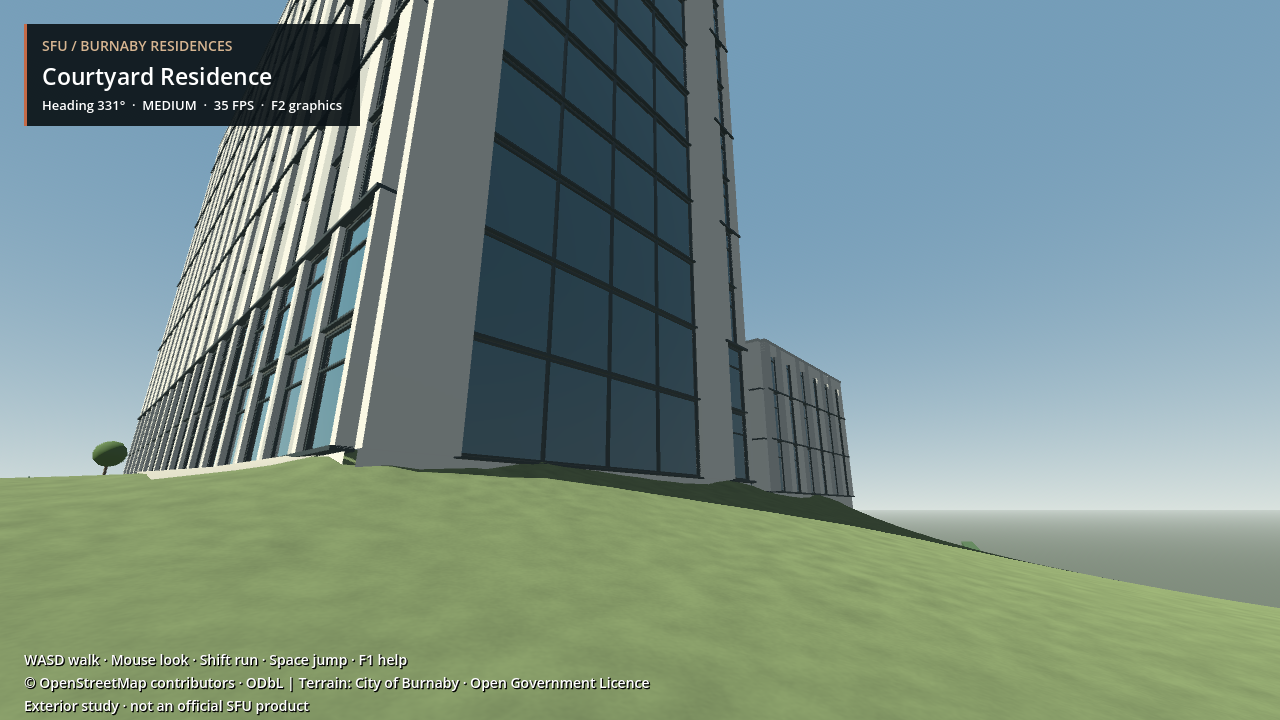
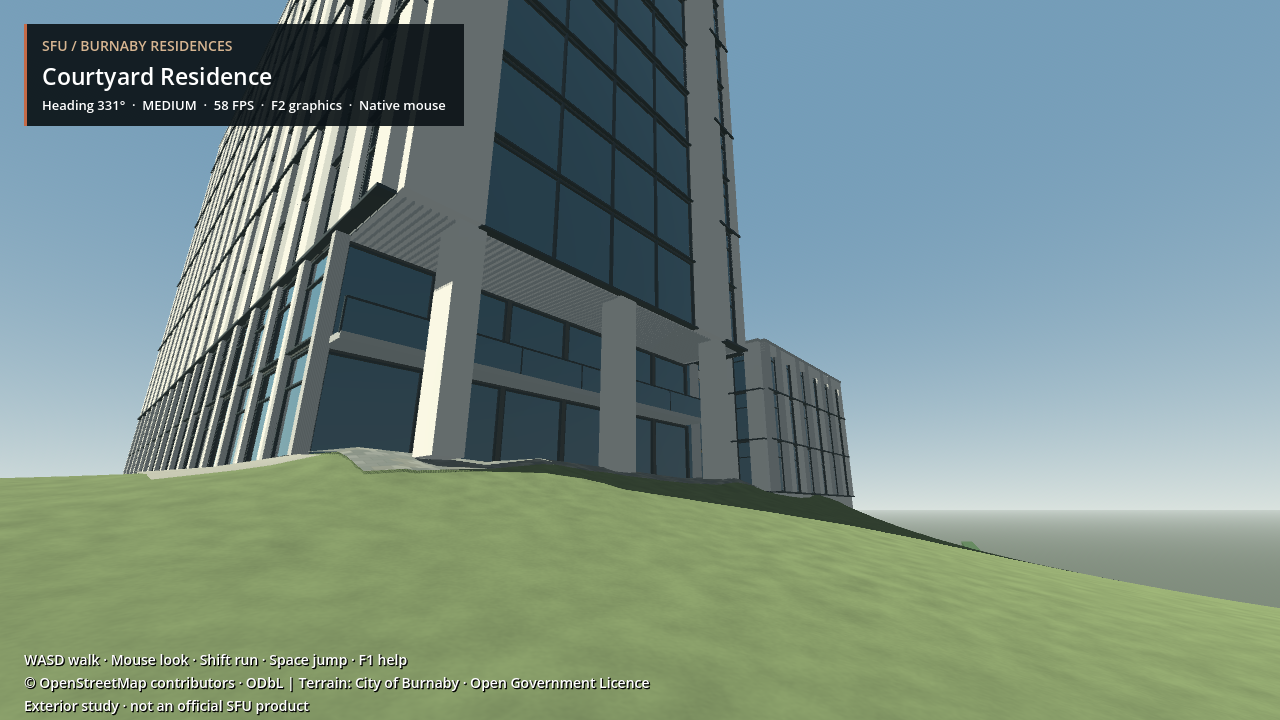
Open Courtyard eastern portico with piers, soffit, pavers and traversal checks

Changed region(s): [[0.2188, 0.2444, 0.5938, 0.6722], [0.2812, 0.0306, 0.375, 0.1833], [0.0625, 0.6111, 0.2188, 0.6722]]

diff --git a/docs/PHASE2_HANDOFF.md b/docs/PHASE2_HANDOFF.md
@@ -1,68 +1,30 @@
 # Phase 2 handoff — 2026-10-18
 
-## Resume here
-Read git status/log and this file. Canonical project outer game/. Last implementation checkpoints:2d0ca64 (Shell courtyard) and560b2cf (Beedie Field). Later documentation checkpoint adds Courtyard evidence and this handoff. Do not recopy Phase1, redo completed photo indexing or reopen mouse troubleshooting without a new failure.
+## Resume
+Use outer game/, inspect git status/log and PHASE2_STATUS.md. Latest field checkpoints681cade and92d2543; final checkpoint adds the Courtyard eastern portico. No migration, dependency reinstall, photo reindex or mouse rewrite needed. User-confirmed mouse/host movement/fullscreen/primary display preserved. Exact stack: Debian WSL2, Godot4.7.2 Standard, GDScript, Compatibility, GTX1650.
 
-User explicitly confirmed mouse works. Preserve current Windows Raw Input helper and host key forwarding, default fullscreen/Windows-primary monitor, escape/focus-loss release. Same Linux Godot4.7.2 Standard/GDScript/Compatibility stack; no dependency installation. Physical testing of all six forwarded keys was not separately confirmed by the user, but HostMovementQA passed previously.
+## Next concrete increment
+Continue Courtyard's LOWER courtyard-facing gallery, not the already completed eastern tall portico. Read PHASE2_COURTYARD_PHOTO_REVIEW.md and existing URL-only references. DIALOG0027 shows pale rectangular columns, closely spaced ceiling fins, grey pavers, low planters and picnic tables looking toward the lowrise and atrium. DIALOG0058 is the DIFFERENT tall eastern portico;0063 is the eastern atrium entrance. Do not combine them into a uniform-height tunnel.
 
-## Next concrete development increment
-Courtyard exterior portico/undercroft. Read the final2026-10-18 section of PHASE2_COURTYARD_PHOTO_REVIEW.md and the three new URL records in reference_photos/Courtyard_Residence/ONLINE_REFERENCES.json. Visually inspected DIALOG images0027,0058,0063 establish different court-facing and street-facing covered spaces; do not apply one guessed gallery height to the entire building.
+Candidate inner-court highrise segment is original footprint points3[328.899,-8.829] to4[300.565,-15.345], facing the lowrise/atrium. Recheck this localization before cutting. Existing CourtyardExterior.shell creates closed collidable polygons. Current eastern implementation uses CourtyardPortico.layout cut, one clipped lower shell to6.2m and full upper shell above it. For a lower gallery, separate vertical bands: lower zone clipped by both openings, intermediate zone clipped only by east portico, full upper footprint. Preserve roof zones, room closure, capped return walls and foundation. Omit only the corresponding facade bays; add piers/soffit/pavers and test physical entry/crossing/exit, rear wall, overhead collision and roof parity. Current eastern dimensions are estimates. Do not expose residential interiors.
 
-Start with the photo-supported eastern portico under the glazed highrise end. Inspect CourtyardExterior.gd shell/facade generation: it currently closes ground floors, with separate highrise/lowrise/atrium zones. Preserve outer footprint, highest roof, all original coordinates and residential closure. A shallow exterior cut requires matching shell, lower facade, return-wall and collision changes, capped recesses, piers and soffit. Test new exterior traversal, inner closed wall, overhead collision and all existing routes. Validate against an eye-level east capture before extending to the courtyard-facing undercroft. User says bridge faces West Mall; do not place it toward the courtyard. Existing generic canopy is not evidence of an actual bridge object.
+The eastern forecourt currently remains an unrealistic grass slope immediately outside the new paver strip. Photo0058 establishes a paved plaza/curb/road, but exact grade needs localization and a separately documented grading layer. Preserve source terrain and pads. Bridge must face West Mall per user, not the inner courtyard; existing generic canopy is not a verified bridge. Full remaining backlog is in STATUS; none of Shell/McTaggart/North parking stairs/East-West stairs/basketball/townhouse approaches/landscape has been dropped.
 
-Further priorities: North gallery parking stairs; McTaggart descending approach; Shell annex/pergola/stairs/trees and grade exposure; East/West site stairs and basketball court; more hardscape and planting. See PHASE2_SITE_WALK_CORRECTIONS.md for full user request. Never remodel approved East/West merely to match old Street View. Modern Courtyard was absent in older imagery; McTaggart and paving also changed.
+## What is verified
+218 physics checks,376 terrain parity samples,389 route checkpoints,zero failures. Final physical route includes entry between eastern piers, crossing behind them, and exit. The tall portico's rear wall and overhead slab are collidable; original Courtyard roof samples remain correct. Runtime/family/photo validators pass. Logs: /tmp/courtyard-portico-verification.log and /tmp/courtyard-portico-route-final.log. Final paving is visual only and scene/route launch passed afterward.
 
-## What changed this iteration
-ShellCourtyard.gd adds photo-derived fence and concrete round tables/curved seats, plus a narrow walk. Form based on user1773695185556.jpg and Shell.jpg; western placement, dimensions, count and spacing are estimated. A table initially blocked original route250,100 and was relocated; unchanged original route subsequently passes. Narrow east-west path remains open through a wide screen gap. Shell facade/roof/pads untouched. Exact entry and exposed floor count remain unresolved. See PHASE2_SHELL_REVIEW.md.
+GPU capture /tmp/courtyard-portico-final-capture.log completed; courtyard_4 inspected from within the portico, previous courtyard_0 inspected from eastern approach. Field4_0/2 and Field2_0/2 also inspected. Device GTX1650 with Compatibility confirmed. Large-campus views17–20fps under test load, simple views near60; not an isolated benchmark. Do not claim full visual fidelity or performance completion.
 
-BeedieField.gd uses OSM way32528092 outline, official SFU Athletics description and historical Jasper Chan panorama uploaded2012. Adds original turf, infield, warning-track, screen/backstop, six static lighting poles, approximate open-sided shelters and simplified scoreboard. Baseline/pitch distances and fixture positions are modeling assumptions, not surveyed values. Dugouts are not yet correctly sunken; bleachers, bullpens, batting cage, concession, actual approach paving and detailed surroundings remain missing.
+Run: bash scripts/run_game.sh . Full regression after geometry: bash scripts/verify_game.sh . Captures: bash scripts/run_game.sh -- --capture-courtyard (now5views), --capture-field4, --capture-field2, --capture-field, --capture-shell. Validators: python3 scripts/validate_runtime_data.py ; python3 scripts/validate_families.py ; python3 scripts/validate_photo_reference_index.py . No need repeat runtime tests for documentation-only edits.
 
-scripts/build_beedie_grade.py writes a separate1997-sample reversible layer, target0.48m median of existing terrain. Flat playing surface,3m collar,14m smooth blend; building4m exclusion plus protection ramp. Original terrain_grid unchanged. Runtime study boundary unions original outline with field8m buffer; no field clipping/moving. Source projected file intentionally remains an unmodified pre-implementation record; runtime game/data/beedie_field.json says implemented. See PHASE2_BEEDIE_FIELD.md.
+## Fields and terrain details
+Field4 OSM32528090, local grade-1.52m; separate field4_grade, 3m collar/18m blend. Field2 OSM32528091, grade0.52m; appended7520 terrain samples toZ280 and3952 local grading samples. Original terrain_grid remains immutable. Generators scripts/build_field4_grade.py and build_field2_grade.py are explicit; do not run build_terrain.py, which would overwrite approved source-grid/pad state. Runtime TerrainController loads extension before local grade layers. Source projected polygons remain reference records; runtime data records implementation status separately.
 
-## Verified state and commands
-/tmp/beedie-verification.log passes191 physics checks,358 route checkpoints,376 terrain-ray parity samples,0 failures. All original routes pass, plus Shell7-point opening route and Beedie10-point gate/outfield route. Runtime/family validators pass, unchanged approved architecture and original geographic records. Last later edit changes turf noise only.
+Field4 soccer form/photo; Field2 natural grass/H posts/photo. User calls Field2 second Beedie/football area; official SFU rugby/soccer naming retained, yard-number markings unresolved. Beedie softball remains separate. Three venues, not four: Field4 outer facility overlaps its pitch and must not be instantiated twice. Exact fixture locations/finished levels remain estimates. Source/URL licensing metadata in Sports_Fields/ONLINE_REFERENCES.json; no third-party photo pixels in game textures.
 
-/tmp/shell-courtyard-final-capture.log and /tmp/beedie-final-capture.log complete on GTX1650 Compatibility. Inspected final shell_3 and field_1, plus initial field_0/field_3. Headless import is not visual fidelity proof. No isolated FPS claim. Field fence uses simplified square grid; site boundary hedge remains a study-limit artifact outside outfield.
+## Preservation and pending evidence
+Approved East/West master/FacadeKit/pads, original19-building geography/routes/site and source contours verified unchanged. Townhouse shared master and contact plinths retained. North longitudinal gallery under long courtyard wing remains correct. Parking target is full preconstruction MainLot by explicit user choice. Old Google imagery is obsolete for modern East/West, McTaggart, Courtyard and paving; use cautiously.
 
-Run interactively: bash scripts/run_game.sh . Restart an older game process to see changes. Focused capture: bash scripts/run_game.sh -- --capture-field (4views), or --capture-shell (5views). Full regression when geometry changes: bash scripts/verify_game.sh . Validators: python3 scripts/validate_runtime_data.py ; python3 scripts/validate_families.py ; python3 scripts/validate_photo_reference_index.py . Do not repeat full regression for documentation-only changes.
+Revisited user PWL-SFU-Residences-Phase-1-1001.jpg this window: readable Shadbolt sign, approximately nine concrete risers, side concrete cheeks, metal rails, inset step light, mixed grey rectangular pavers and planted flanks. This is courtyard-facing evidence, not enough to locate rear parking stairs. Do not revive the old wrong-orientation prototype (/home/danik/Backups/SFU-North-stair-prototype-20261016) blindly.
 
-## Preservation and source handling
-Mouse, approved East/West master/FacadeKit and pads, shared townhouse master, North longitudinal passage direction, original19building XZ and source elevations protected. Full preconstruction parking lot explicitly user-approved. Original nested game remains rollback; obsolete nested Markdown cleanup was completed earlier. No NPCs/interiors/API integration.
-
-46local photos individually indexed; no copyrighted photo pixels shipped. Shell Street View visually inspected only (June2015,2011 alternative); used for orientation caveat, not modern reconstruction truth. Official Shell plan link redirected to CAS and was not bypassed. Additional Courtyard/Beedie images retained as URL metadata only.
-
-Untracked user/source files preserved: FILE_MANIFEST.json, vehicle source zip and Zone.Identifier, historic_maps/, reference folder .gitkeep files and reference_photos/README.md. HostMovementQA.gd.uid was generated by import and can be committed with that existing script. One-off metadata helpers archived outside workspace at /home/danik/Backups/SFU-site-iteration-20261018. Original and pre-final consolidated status/handoff copies are also there.
-
-Latest host usage reading87% consumed while preparing final checkpoint. Stop here for this window; next user-started iteration revokes this stop instruction. Five hours is quota reset, never a development deadline. No automatic reset wait/resume configured.
-
-## User follow-up: THREE residence-adjacent fields — 2026-10-18
-User confirms there are three distinct fields behind West/East/McTaggart; Beedie alone is incomplete. Source preparation completed within user-reported remaining7% allowance; no runtime geometry changed.
-
-Official SFU Recreation https://www.sfu.ca/recreation/info/facilities.html identifies Field4 as artificial turf for soccer/lacrosse (two coaches booths, lighting,360 seats), Field2 as grass for rugby/soccer, Beedie as softball. Cross-checked SFU Athletics facilities page https://athletics.sfu.ca/sports/2014/8/8/ATH_0808144723.aspx?id=90 . Existing precinct.osm contains all three adjacent mapped venues. Terry Fox Field is a different venue farther east; do not substitute it for Field2.
-
-scripts/prepare_residence_fields.py writes data/site_sources/residence_fields_projected.json, with original source IDs/tags, projected polygons, bounds, licensing and implementation status. Projection regression matches the existing Beedie coordinates exactly.
--Field4 playing surface: OSM32528090, X-59.569..75.245,Z65.583..156.018. Outer facility OSM1091325198: X-80.895..77.733,Z57.832..158.875. These overlap and are ONE field, not two.
--Field2: OSM32528091, X138.738..273.958,Z159.298..257.972. Extends beyond current rendered terrain Z240 AND playable boundary; must expand sampled terrain/render/collision coverage deliberately. Do not clamp elevations outside the old grid or clip/relocate the field.
--Beedie: OSM32528092, already implemented first pass; preserve it.
-
-Next field increment: audit Field4 against the current anonymous green quadrilateral in ResidenceWorld.build_ground ([-66,74],[55,100],[40,160],[-80,137]); replace that placeholder with the mapped field rather than layering duplicate turf. Also audit spawn[35,80], paths, boundary and level grading before placing goals/fences. Obtain current specific field photos; preserve surrounding approved buildings. Then extend geographic/terrain coverage for Field2, with collision and traversal checks. Neither missing field has been implemented yet.
-
-All repeated user remarks remain active: mouse now works and must be preserved; Shell timber seating/fence/stairs/terraces (fence/concrete picnic seating partial, timber benches not yet verified); McTaggart descending approach; Courtyard open supported ground level and bridge toward West Mall; North gallery direction correct, wall backsides fixed previously but parking stairs pending; East/West exterior stairs and basketball court while preserving facades; three sports fields; townhouse ground contact improved but approach grades pending; continuing paving/curb/retaining/landscape research. Old Street View cannot override current East/West, McTaggart, Courtyard or newer paving. No request was dropped.
-
-Current runtime remains verified checkpoint560b2cf:191 physics checks/358 route points; this source/documentation follow-up needs no repeated runtime test. Resume this expanded backlog on next user-started window; prior stop wording does not mean work is finished.
-
-## Verified Field4 checkpoint — 2026-10-18, new usage window
-This section supersedes the earlier stop instruction and statement that Field4 is missing. Field4 now replaces the anonymous turf patch with its mapped outline, level local grade, soccer lines and goals. Approved building models and input unchanged. Official field photographs inspected and URL-only indexed in Sports_Fields/ONLINE_REFERENCES.json; see PHASE2_RESIDENCE_FIELDS.md for uncertainty.
-
-Verification: /tmp/field4-boundary-verification.log physics199/199 and terrain parity376/376. Final route-only rerun /tmp/field4-route-final.log passes372/372 checkpoints including14 Field4 approach/pitch points; prior failure was a too-long timed test segment, now subdivided without changing its path. Runtime/family/photo validators pass. GPU capture /tmp/field4-boundary-capture.log completed on GTX1650 Compatibility; eye-level field4_0 and final aerial field4_2 inspected. Capture reports19fps/429draws under concurrent testing, not an isolated benchmark; performance remains a concern.
-
-Next: integrate prepared Field2.gd, field2.json, field2_grade.json and field2_terrain_extension.json. They are currently untracked preparation, not runtime-active. User clarified eastern Field2 beside McTaggart; separate Field4 behind towers. Preserve official rugby/soccer description and photo-confirmed H goals; American football yard lines unconfirmed. Extend render grid to Z280, union boundary, and test seam/collision/traversal. Then resume Courtyard portico and the full retained site backlog above. No earlier user remarks were dropped.
-
-## Verified Field2 checkpoint — 2026-10-18
-Field2 is now runtime-active; all THREE residence-adjacent fields exist. OSM32528091 footprint preserved. Original natural-grass material and two photo-supported H-goal assemblies; goal dimensions/positions remain estimated. User's eastern-location clarification retained; official venue description rugby/soccer differs from user's football/second-Beedie naming. No unsupported yard-number markings.
-
-Terrain extends from Z240 to Z280 using7520 appended samples from original licensed contours, with separate3952-sample local grade at estimated0.52m. Original terrain_grid and pads remain unchanged. Rendering/collision and study boundary cover the entire field. /tmp/field2-verification.log:215 physics checks,385 route points,376 existing terrain parity samples,0 failures. Includes level/collision/boundary samples beyondZ240, seam continuity and13-point approach/pitch route. Preservation validation passes.
-
-/tmp/field2-capture.log completed on GTX1650 Compatibility. field2_0 eye-level and field2_2 aerial visually inspected. Three fields correctly distinct and no clipped ground. Site-limit hedge is still an artificial boundary; forest-edge planting/precise field surroundings remain missing. Capture means59fps looking across empty field,18fps facing campus,17fps aerial at1280x720 medium during regression; these are diagnostic samples, not isolated benchmarks. Large campus views need optimization.
-
-Next: Courtyard eastern tall portico, then inner-court undercroft/West Mall bridge, North parking stairs and remaining Shell/McTaggart/East-West hardscape from existing backlog. Approved towers, all buildingXZ, mouse and stack preserved. Source extension generator: python3 scripts/build_field2_grade.py . Capture: bash scripts/run_game.sh -- --capture-field2 .
+Untracked user files deliberately retained: FILE_MANIFEST.json, car source zip/Zone.Identifier, historic_maps/, photo .gitkeep files and reference_photos/README.md. Nested original Godot rollback remains; obsolete nested Markdown cleanup already completed. Previous long STATUS/HANDOFF backed up outside active workspace in /home/danik/Backups/SFU-site-iteration-20261018/fields-portico-pre-consolidation. Host read85% consumed near safe finalization. Resume on next user request; no automatic reset scheduling.

diff --git a/docs/PHASE2_STATUS.md b/docs/PHASE2_STATUS.md
@@ -1,57 +1,34 @@
 # Phase 2 status — 2026-10-18
 
-## Current verified state
-Canonical project is outer game/. Godot4.7.2 Standard Linux, GDScript, OpenGL Compatibility, Debian WSL2 and GTX1650 remain unchanged. Mouse is user-confirmed working; retain the Windows Raw Input adapter, fullscreen/primary-monitor placement and host movement forwarding. No new camera changes this iteration.
+## Latest verified state
+Canonical project: outer game/. Godot4.7.2 Standard Linux, GDScript, Compatibility/OpenGL, Debian WSL2 and GTX1650 preserved. Mouse is user-confirmed working; Windows Raw Input, forwarded movement, fullscreen and primary-monitor behavior unchanged. Original19-building XZ, approved East/West facade master/FacadeKit, building pads, source elevations and original routes remain unchanged.
 
--2d0ca64: Shell courtyard furniture. Weathered timber fence, three original round concrete picnic sets with curved seats, and narrow concrete walk. Existing passage left open. First table placement blocked a real regression route; relocated it and all routes now pass. Photo forms verified; exact west-frontage placement/count/dimensions remain estimated. Shell building geometry unchanged.
--560b2cf: Beedie Field. Original OSM outline retained, local reversible level-surface grading, turf/infield/warning-track, fence/backstop, six unlit pole assemblies, approximate open shelters and scoreboard. Original terrain sources and building pads unchanged. Study boundary extended only around field so it is not cut off. This is a playable first pass, not a completed surveyed sports facility.
--Courtyard research: three additional DIALOG completed-project photographs inspected and indexed. Court-facing undercroft, tall eastern portico and eastern entrance are distinct arrangements. Implementation remains pending; exact next increment in PHASE2_COURTYARD_PHOTO_REVIEW.md.
+### Completed in this usage window
+-681cade: Field4 replaces the anonymous green placeholder with the mapped playing surface, separate reversible level grading, soccer lines and two goals. Official SFU photo inspected. Estimated finished level -1.52m; fixture dimensions/locations provisional.14-point field traversal passes.
+-92d2543: eastern Field2 added beside McTaggart. Mapped polygon, natural-grass material and photo-confirmed H-shaped goals. Terrain appended fromZ240 toZ280 using original licensed contours; source grid untouched. Estimated finished level0.52m. Collision/boundary coverage and13-point approach/extended-ground traversal pass. All THREE residence-adjacent fields now exist.
+-Courtyard eastern portico: shallow open exterior under the glazed highrise end, tall concrete piers, closed soffit, recessed opaque glazing, upper-level rail/walkway indication, ceiling fins and grey pavers. Original full upper footprint/roof heights retained. This is the eastern tall portico only; the lower inner-court gallery and West Mall bridge remain pending. Depth3.4m, height6.2m and pier spacing are estimates from DIALOG0058, not measured plans.
+
+User calls eastern Field2 the second part of Beedie/football field. Official SFU calls it Field2 and lists rugby/soccer. Identity/location confirmed; American football yard markings unconfirmed and not invented. Field4 is the separate field behind the towers. References: reference_photos/Sports_Fields/ONLINE_REFERENCES.json and PHASE2_RESIDENCE_FIELDS.md.
 
 ## Verification
-Final geometry regression /tmp/beedie-verification.log:191 physics checks,358 continuous route checkpoints,376 terrain-ray parity samples, zero failures. Includes original routes, Shell fence opening and Beedie gate/outfield. Preservation validator confirms unchanged19-building XZ, original site/routes, approved East/West master/FacadeKit/pads and source contour grid. Architectural family validator:8 families,10 named instances,0 errors. Photo inventory46/46 indexed,0 findings; does not establish fidelity or reuse rights.
+/tmp/courtyard-portico-verification.log:218 physics checks and376 original terrain-ray parity samples pass. Final /tmp/courtyard-portico-route-final.log:389 continuous route checkpoints pass, including all original routes, parking, Shell, Beedie, Field4, Field2 and4-point Courtyard portico entry/crossing/exit. Final paving/capture additions are visual only; final route run also confirms successful scene load. Final route log copied to game/docs/phase2_tests/routes.log.
 
-GPU capture /tmp/shell-courtyard-final-capture.log completed; final shell_3 inspected. /tmp/beedie-final-capture.log completed after a turf-noise-only adjustment; field_0/field_3 initial and field_1 final inspected. Device log confirms GTX1650 through D3D12/OpenGL Compatibility. Captures are not an isolated performance benchmark; visual quality remains simplified. Screenshots in game/docs/screenshots.
+Runtime preservation,8-family/10-instance and46-photo inventory validators pass. Photo index validation does not establish fidelity or reuse rights. No dependency installed.
 
-## Remaining work
-1. Courtyard actual open ground level/columns/closed inner boundary and bridge toward West Mall; reconcile the differently sized exterior spaces before carving geometry.
-2. North longitudinal gallery is correct and closed inner wall faces were repaired previously; photo-localized exits/stairs to parking still missing.
-3. Shell stairs/landings, annex/pergola, trees, actual entry placement and three visible vs four total levels still unresolved.
-4. McTaggart descending approach/connector, East/West surrounding stairs and confirmed basketball placement.
-5. Beedie sunken dugouts, bleachers/bullpens/batting cage, precise pole/scoreboard locations and finished elevations; current fixtures are estimates.
-6. Further photo-grounded paving/curbs/drains/retaining features; townhouse approach grades; denser realistic planting where supported.
+GPU captures on GTX1650/D3D12 OpenGL Compatibility completed: field4,field2 and courtyard. Inspected field4 eye-level/aerial, field2 eye-level/aerial, courtyard eastern approach and final courtyard_4 under-portico view. Last capture /tmp/courtyard-portico-final-capture.log. Large campus views remain roughly17–20fps under concurrent testing; simple field/portico views can approach60fps. Not an isolated benchmark; optimization remains needed. Game/docs contains screenshots and per-view measurements.
 
-All approved East/West and townhouse architecture preserved. Full preconstruction Residence Main Lot remains the user-selected target. No interiors, NPCs, conversations or API integration.
+## Retained completed work
+Shell photo-derived weathered fence, round concrete picnic furniture and narrow walk (2d0ca64); Beedie softball first pass with local grade/access/backstop/fence/shelters (560b2cf); North longitudinal gallery direction and wall-backside repair; townhouse ground-contact plinths; full preconstruction Main Lot leveling and CC0 cars. Preserve these, original nested rollback, user photos and all input work.
 
-Host usage read87% consumed near final handoff; this is a usage reset window, not a five-hour coding deadline. Resume on the next user request; no automatic continuation is scheduled. Historical status/handoff backups outside workspace: /home/danik/Backups/SFU-site-iteration-20261018 (initial and before-final copies). Specific earlier evidence remains in the other PHASE2 documents.
+## Remaining user-requested work
+1. Courtyard lower inner-court supported gallery, bridge toward West Mall, paved forecourt/curb/retaining transitions. The current grass slope outside the new portico is visibly too crude. Do not hollow the entire building or apply the tall portico height everywhere.
+2. North gallery exits/stairs toward parking, photo-localized. PWL1001 shows Shadbolt courtyard-facing stairs; it is not proof of the rear parking connection. Gallery direction remains correct; inner faces repaired previously.
+3. Shell stairs/landings, terrace/pergola/annex, trees, entry localization, three visible vs four total levels. Current fence/concrete picnic seating is partial; timber benches not yet verified.
+4. McTaggart descending approach/connector; East/West surrounding stairs and confirmed basketball placement. Do not remodel approved tower exteriors.
+5. Sports fields: accurate approaches, forest edges, actual perimeter fences, Field4 booths/stands/lighting/scoreboard placement; Beedie sunken dugouts, bleachers, bullpens and batting cage. Study-limit hedge remains an artificial boundary. Finished levels/fixture positions need stronger evidence.
+6. Further photo-grounded concrete/pavers/curbs/drains/retaining walls, townhouse approach grades and more realistic planting. Existing townhouse architecture/contact fixes retained.
+7. Performance in broad campus views; avoid degrading GTX1650 Compatibility support or changing approved buildings merely to reduce detail.
 
-## User follow-up: THREE residence-adjacent fields — 2026-10-18
-User confirms there are three distinct fields behind West/East/McTaggart; Beedie alone is incomplete. Source preparation completed within user-reported remaining7% allowance; no runtime geometry changed.
+Old Street View cannot override current East/West, modern McTaggart, Courtyard or newer paving. All local selected photos remain priority; URL-only additional references carry provenance and uncertainty. No interiors/NPCs/conversations/API integration.
 
-Official SFU Recreation https://www.sfu.ca/recreation/info/facilities.html identifies Field4 as artificial turf for soccer/lacrosse (two coaches booths, lighting,360 seats), Field2 as grass for rugby/soccer, Beedie as softball. Cross-checked SFU Athletics facilities page https://athletics.sfu.ca/sports/2014/8/8/ATH_0808144723.aspx?id=90 . Existing precinct.osm contains all three adjacent mapped venues. Terry Fox Field is a different venue farther east; do not substitute it for Field2.
-
-scripts/prepare_residence_fields.py writes data/site_sources/residence_fields_projected.json, with original source IDs/tags, projected polygons, bounds, licensing and implementation status. Projection regression matches the existing Beedie coordinates exactly.
--Field4 playing surface: OSM32528090, X-59.569..75.245,Z65.583..156.018. Outer facility OSM1091325198: X-80.895..77.733,Z57.832..158.875. These overlap and are ONE field, not two.
--Field2: OSM32528091, X138.738..273.958,Z159.298..257.972. Extends beyond current rendered terrain Z240 AND playable boundary; must expand sampled terrain/render/collision coverage deliberately. Do not clamp elevations outside the old grid or clip/relocate the field.
--Beedie: OSM32528092, already implemented first pass; preserve it.
-
-Next field increment: audit Field4 against the current anonymous green quadrilateral in ResidenceWorld.build_ground ([-66,74],[55,100],[40,160],[-80,137]); replace that placeholder with the mapped field rather than layering duplicate turf. Also audit spawn[35,80], paths, boundary and level grading before placing goals/fences. Obtain current specific field photos; preserve surrounding approved buildings. Then extend geographic/terrain coverage for Field2, with collision and traversal checks. Neither missing field has been implemented yet.
-
-All repeated user remarks remain active: mouse now works and must be preserved; Shell timber seating/fence/stairs/terraces (fence/concrete picnic seating partial, timber benches not yet verified); McTaggart descending approach; Courtyard open supported ground level and bridge toward West Mall; North gallery direction correct, wall backsides fixed previously but parking stairs pending; East/West exterior stairs and basketball court while preserving facades; three sports fields; townhouse ground contact improved but approach grades pending; continuing paving/curb/retaining/landscape research. Old Street View cannot override current East/West, McTaggart, Courtyard or newer paving. No request was dropped.
-
-Current runtime remains verified checkpoint560b2cf:191 physics checks/358 route points; this source/documentation follow-up needs no repeated runtime test. Resume this expanded backlog on next user-started window; prior stop wording does not mean work is finished.
-
-## Verified Field4 checkpoint — 2026-10-18, new usage window
-This section supersedes the earlier stop instruction and statement that Field4 is missing. Field4 now replaces the anonymous turf patch with its mapped outline, level local grade, soccer lines and goals. Approved building models and input unchanged. Official field photographs inspected and URL-only indexed in Sports_Fields/ONLINE_REFERENCES.json; see PHASE2_RESIDENCE_FIELDS.md for uncertainty.
-
-Verification: /tmp/field4-boundary-verification.log physics199/199 and terrain parity376/376. Final route-only rerun /tmp/field4-route-final.log passes372/372 checkpoints including14 Field4 approach/pitch points; prior failure was a too-long timed test segment, now subdivided without changing its path. Runtime/family/photo validators pass. GPU capture /tmp/field4-boundary-capture.log completed on GTX1650 Compatibility; eye-level field4_0 and final aerial field4_2 inspected. Capture reports19fps/429draws under concurrent testing, not an isolated benchmark; performance remains a concern.
-
-Next: integrate prepared Field2.gd, field2.json, field2_grade.json and field2_terrain_extension.json. They are currently untracked preparation, not runtime-active. User clarified eastern Field2 beside McTaggart; separate Field4 behind towers. Preserve official rugby/soccer description and photo-confirmed H goals; American football yard lines unconfirmed. Extend render grid to Z280, union boundary, and test seam/collision/traversal. Then resume Courtyard portico and the full retained site backlog above. No earlier user remarks were dropped.
-
-## Verified Field2 checkpoint — 2026-10-18
-Field2 is now runtime-active; all THREE residence-adjacent fields exist. OSM32528091 footprint preserved. Original natural-grass material and two photo-supported H-goal assemblies; goal dimensions/positions remain estimated. User's eastern-location clarification retained; official venue description rugby/soccer differs from user's football/second-Beedie naming. No unsupported yard-number markings.
-
-Terrain extends from Z240 to Z280 using7520 appended samples from original licensed contours, with separate3952-sample local grade at estimated0.52m. Original terrain_grid and pads remain unchanged. Rendering/collision and study boundary cover the entire field. /tmp/field2-verification.log:215 physics checks,385 route points,376 existing terrain parity samples,0 failures. Includes level/collision/boundary samples beyondZ240, seam continuity and13-point approach/pitch route. Preservation validation passes.
-
-/tmp/field2-capture.log completed on GTX1650 Compatibility. field2_0 eye-level and field2_2 aerial visually inspected. Three fields correctly distinct and no clipped ground. Site-limit hedge is still an artificial boundary; forest-edge planting/precise field surroundings remain missing. Capture means59fps looking across empty field,18fps facing campus,17fps aerial at1280x720 medium during regression; these are diagnostic samples, not isolated benchmarks. Large campus views need optimization.
-
-Next: Courtyard eastern tall portico, then inner-court undercroft/West Mall bridge, North parking stairs and remaining Shell/McTaggart/East-West hardscape from existing backlog. Approved towers, all buildingXZ, mouse and stack preserved. Source extension generator: python3 scripts/build_field2_grade.py . Capture: bash scripts/run_game.sh -- --capture-field2 .
+Host usage read85% consumed before final verification/handoff. Current safe operation completed; next user-started usage window should resume from HANDOFF. Five hours is quota reset, never a coding deadline. No automatic reset wait/resume. Previous long status/handoff archived outside project at /home/danik/Backups/SFU-site-iteration-20261018/fields-portico-pre-consolidation.

diff --git a/docs/PHASE2_COURTYARD_PHOTO_REVIEW.md b/docs/PHASE2_COURTYARD_PHOTO_REVIEW.md
@@ -20,3 +20,6 @@ Source gallery: https://dialogdesign.ca/projects/simon-fraser-university-phase-2
 Next implementation should be a small tested EAST PORTICO increment before the longer undercroft: subtract a shallow exterior strip behind the existing east highrise face from only the ground shell, keep full upper footprint/roof, build capped recessed opaque-glazing boundary and solid pale piers/soffit. Clip adjacent short return walls and low facade pieces consistently so there are no invisible collision walls or exposed backside geometry. Test crossing between piers, closed inner boundary, overhead collision, unchanged roof and preexisting routes; capture from353,17 toward337,-13 at eye height. Depth/height/column spacing remain estimated until the photos are reconciled with the footprint and ground levels. Do not implement a guessed full building hollow.
 
 Then localize the court-facing ground passage using0027 and additional current photos. Bridge direction remains user-confirmed toward West Mall (south/academic side), not a courtyard-side guess. Existing implementation has a generic entrance canopy but no proven actual bridge object: audit before claiming it was moved. A fully measured bridge endpoint and current circulation alignment remain unresolved.
+
+## Eastern portico implemented — 2026-10-18
+CourtyardPortico.gd and clipped lower shell now provide the DIALOG0058-supported tall covered eastern exterior, three provisional piers, closed soffit/rear boundary, recessed glazing/upper walkway indication, fins and grey pavers. Depth3.4m and height6.2m are estimates. Original upper footprint/roof zones retained.218 physics checks/389 route checkpoints pass; final courtyard_4 eye-level inspected. Photo0027 lower court-facing gallery, forecourt grade/paving and West Mall bridge remain pending; see HANDOFF for next geometry increment. Do not mark the whole ground floor complete.
